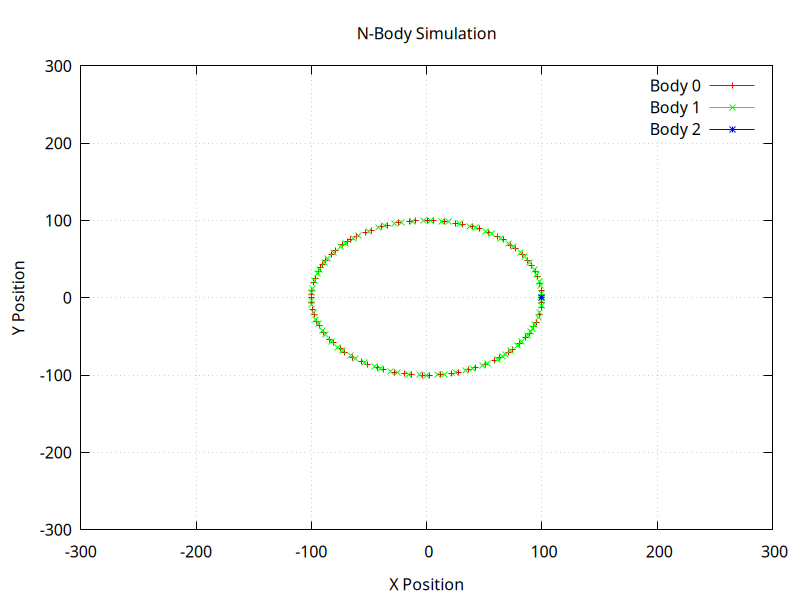
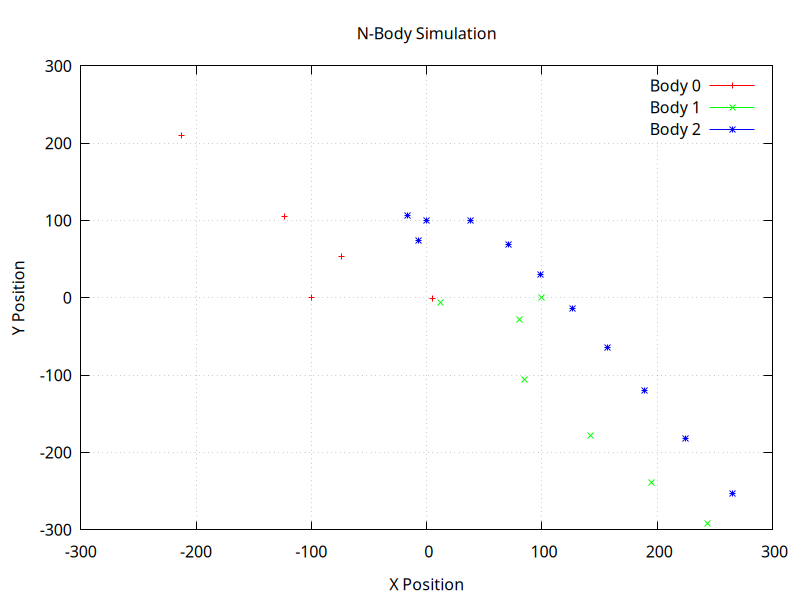
ongoing progress
not working yet

diff --git a/parallel/main.c b/parallel/main.c
@@ -2,14 +2,14 @@
 #include "timer.h"
 #include <mpi.h>
 
-int num_bodies = 2; // Total number of bodies
+int num_bodies = 3; // Total number of bodies
 int timestep = 0;
 
-int main()
+int main(int argc, char *argv[])
 {
 
     // Initialize MPI
-    MPI_Init;
+    MPI_Init(&argc, &argv);
 
     int rank, num_processes;
 
@@ -21,6 +21,14 @@ int main()
 
     int start_index = rank * bodies_per_process + (rank < remainder ? rank : remainder);
     int local_num_bodies = bodies_per_process + (rank < remainder ? 1 : 0);
+
+    if (local_num_bodies == 0)
+    {
+        printf("Rank %d: No work assigned. Skipping computations.\n", rank);
+        MPI_Barrier(MPI_COMM_WORLD); // Ensure all processes sync
+        MPI_Finalize();              // Clean exit for idle processes
+        return 0;                    // End the process
+    }
 
     // debugging print to make sure even distrubution
     printf("Rank %d: start_index = %d, local_num_bodies = %d\n", rank, start_index, local_num_bodies);
@@ -57,7 +65,8 @@ int main()
 
     // broadcast array to other processes
     MPI_Bcast(bodies, num_bodies, MPI_BODY, 0, MPI_COMM_WORLD);
-    MPI_Barrier(MPI_COMM_WORLD);
+
+    // MPI_Barrier(MPI_COMM_WORLD);
 
     // Open file for writing output
     FILE *fp = fopen("output.dat", "w");
@@ -79,22 +88,26 @@ int main()
             }
         }
 
-        // Update forces, velocities, and positions for local bodies
-        // these have been mpi implemented?
-        // printf("Rank %d: Starting compute_force for timestep %d\n", rank, timestep);
+        if (local_num_bodies > 0)
+        {
+            // Update forces, velocities, and positions for local bodies
+            // these have been mpi implemented?
+            // printf("Rank %d: Starting compute_force for timestep %d\n", rank, timestep);
 
-        compute_force(bodies, rank, num_processes);
-        // printf("Rank %d: completed compute_force for timestep %d\n", rank, timestep);
+            compute_force(bodies, rank, num_processes);
+            // printf("Rank %d: completed compute_force for timestep %d\n", rank, timestep);
 
-        update_velocity(bodies, delta_time, rank, num_processes);
-        // printf("Rank %d: completed update velocity for timestep %d\n", rank, timestep);
+            update_velocity(bodies, delta_time, rank, num_processes);
+            // printf("Rank %d: completed update velocity for timestep %d\n", rank, timestep);
 
-        update_positions(bodies, delta_time, rank, num_processes);
+            update_positions(bodies, delta_time, rank, num_processes);
 
-        compute_force(bodies, rank, num_processes);
+            compute_force(bodies, rank, num_processes);
 
-        // Full update step
-        update_velocity(bodies, delta_time, rank, num_processes);
+            // Full update step
+            update_velocity(bodies, delta_time, rank, num_processes);
+        }
+
         MPI_Barrier(MPI_COMM_WORLD);
     }
 

diff --git a/parallel/update_velocity.c b/parallel/update_velocity.c
@@ -20,9 +20,8 @@ void update_velocity(BODY *bodies, double delta_time, int rank, int size)
         // update the velocity of body n
         bodies[i].vx += ax * (delta_time / 2.0); // new velocity in x direction
         bodies[i].vy += ay * (delta_time / 2.0); // new velocity in y direction
-
-        MPI_Allgather(MPI_IN_PLACE, local_num_bodies * sizeof(BODY), MPI_BYTE,
-                      bodies, local_num_bodies * sizeof(BODY), MPI_BYTE, MPI_COMM_WORLD);
-        MPI_Barrier(MPI_COMM_WORLD);
     }
+    MPI_Allgather(MPI_IN_PLACE, local_num_bodies * sizeof(BODY), MPI_BYTE,
+                  bodies, local_num_bodies * sizeof(BODY), MPI_BYTE, MPI_COMM_WORLD);
+    MPI_Barrier(MPI_COMM_WORLD);
 }
